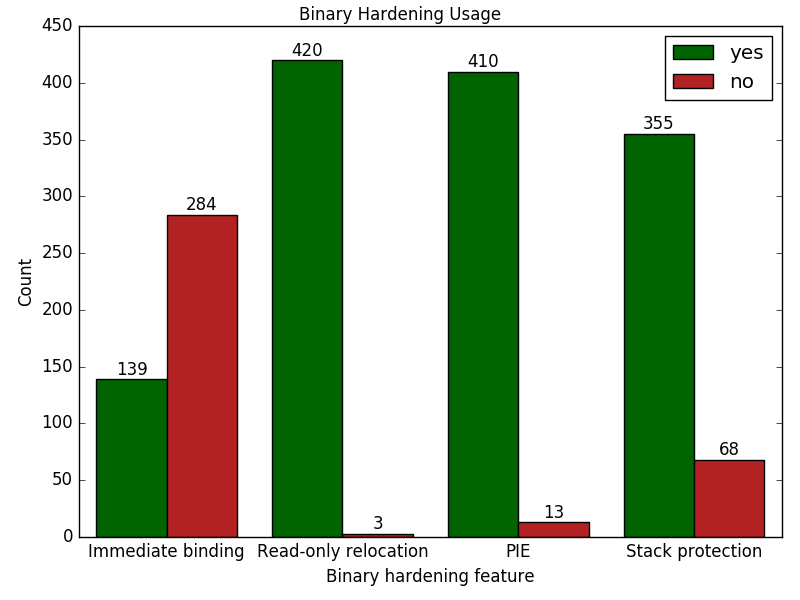
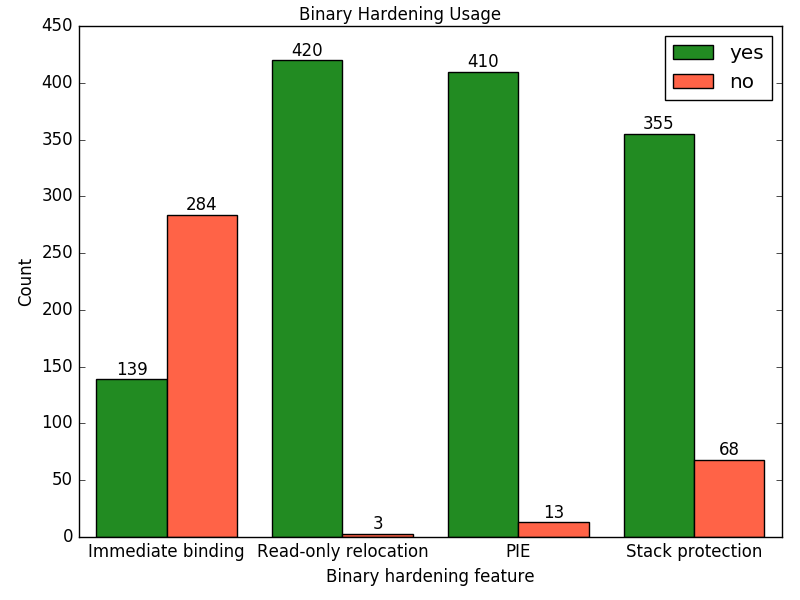
Updated graph colors.

diff --git a/infra/src/graph_generator.py b/infra/src/graph_generator.py
@@ -79,7 +79,7 @@ class GraphGenerator:
       bar_offsets = np.arange(-(num_groups // 2 - 0.5) * bar_width,
                               (num_groups // 2 - 0.5),
                               bar_width)
-      color = iter(['darkgreen', 'firebrick', 'blue', 'orange', 'seagreen', 'red'])
+      color = iter(['forestgreen', 'tomato', 'blue', 'orange', 'seagreen', 'firebrick'])
       group_rects = [plt.bar(x_pos + bar_offset - bar_width / 2, data, bar_width, label=name,
                              color=next(color))
                      for bar_offset, name, data
